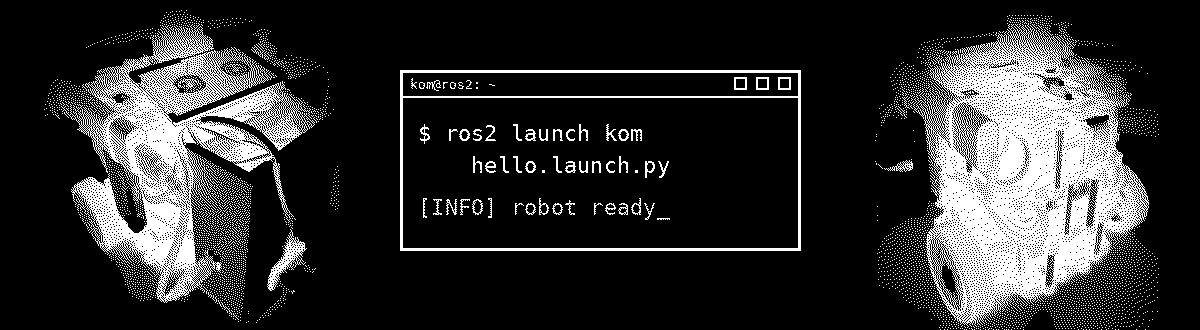
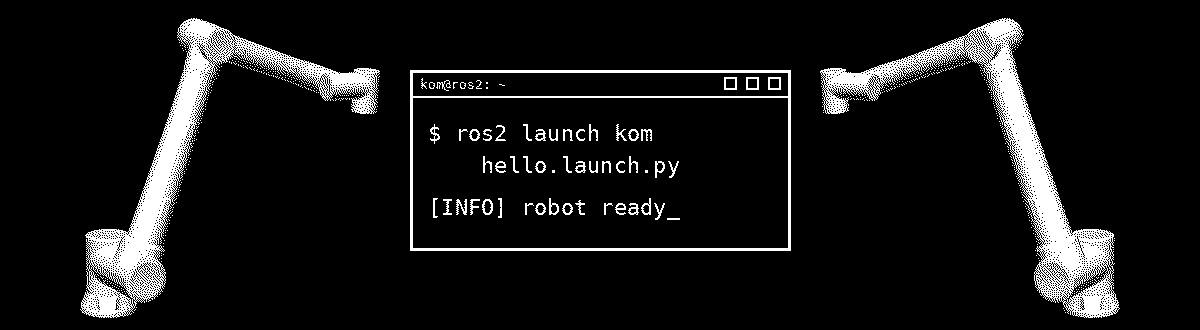
docs: 프로필 배너를 Fairino FR20 로봇팔 렌더링으로 교체

diff --git a/README.md b/README.md
@@ -1,6 +1,6 @@
 <div align="center">
 
-<img src="assets/banner.png" alt="직접 만든 TurtleBot3 사진을 점묘로 바꾼 배너" width="100%" />
+<img src="assets/banner.png" alt="DT_Index 프로젝트의 Fairino FR20 로봇팔 3D 모델을 점묘로 렌더링한 배너" width="100%" />
 
 ## 안녕하세요, 권오민입니다 👋
 
